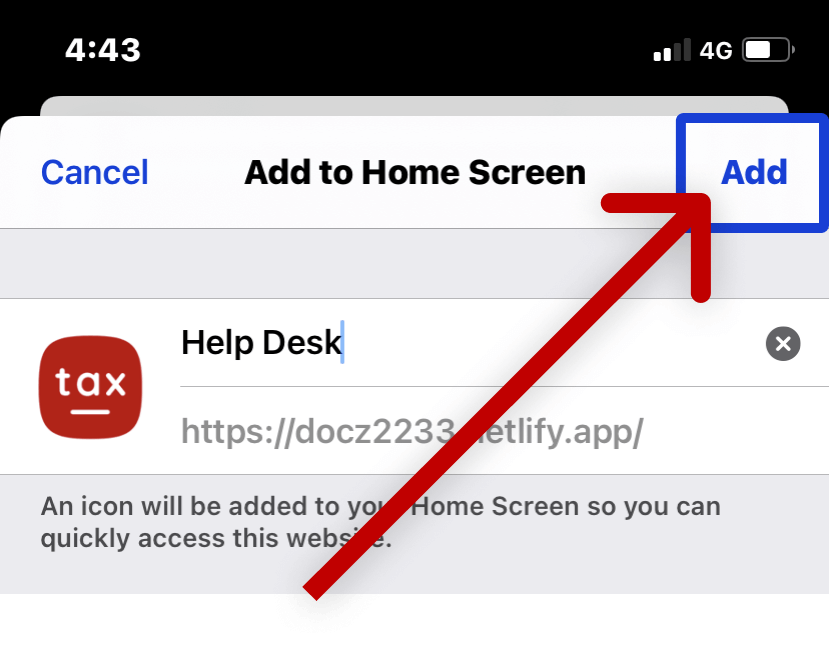
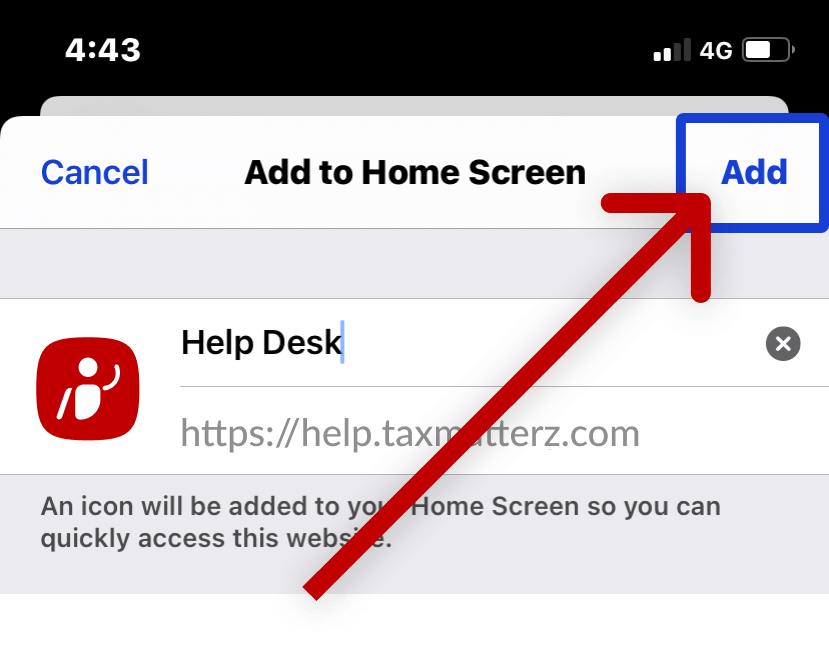
docs updated

Changed region(s): [[0.2111, 0.6502, 0.7841, 0.7121], [0.0302, 0.4954, 0.1809, 0.6811]]

diff --git a/docusaurus.config.js b/docusaurus.config.js
@@ -6,7 +6,7 @@ const path = require('path');
 module.exports = {
   title: "Help Desk",
   tagline: "Say Hello to Knowledge",
-  url: "https://helpdesk-taxmatterz.netlify.app",
+  url: "https://help.taxmatterz.com",
   baseUrl: "/",
   onBrokenLinks: "warn", //ignore, log, warn, error, throw
   onBrokenMarkdownLinks: "warn",
@@ -103,7 +103,7 @@ module.exports = {
             },
             {
               label: "CMS",
-              to: "https://helpdesk-taxmatterz.netlify.app/admin"
+              to: "https://help.taxmatterz.com/admin"
             },
             {
               label: "Submit Feedback",

diff --git a/src/components/pwaFooter/PWAFooter.js b/src/components/pwaFooter/PWAFooter.js
@@ -34,12 +34,6 @@ export default function PWAFooter() {
 
   return (
     <>
-      <div className="container">
-        <div class="row">
-          <button className="button button--primary button--lg">Print Page</button>
-          <button className="button button--info button--lg">Share Article</button>
-        </div>
-      </div>
       <div className="tab-bar">
         <div className="container">
           <div className="row-bar">

diff --git a/src/css/footer.scss b/src/css/footer.scss
@@ -90,4 +90,16 @@ footer {
   .margin-top--sm {
     margin-top: 2rem !important;
   }
+
+
+}
+
+.footer-actions-buttons {
+  margin: 0 auto;
+  max-width: var(--ifm-container-width);
+  padding: 0 var(--ifm-spacing-horizontal);
+  /* width: 100%; */
+  width: 60%;
+  // padding-top: 1rem;
+  // padding-bottom: 1rem;
 }

diff --git a/src/css/custom.scss b/src/css/custom.scss
@@ -32,6 +32,7 @@
   --ifm-link-color: #1b74e9;
 
   --NAVBAR-HEIGHT: 5rem;
+  --ifm-alert-border-radius: 0rem;
 }
 
 $primary: #2e3148;
